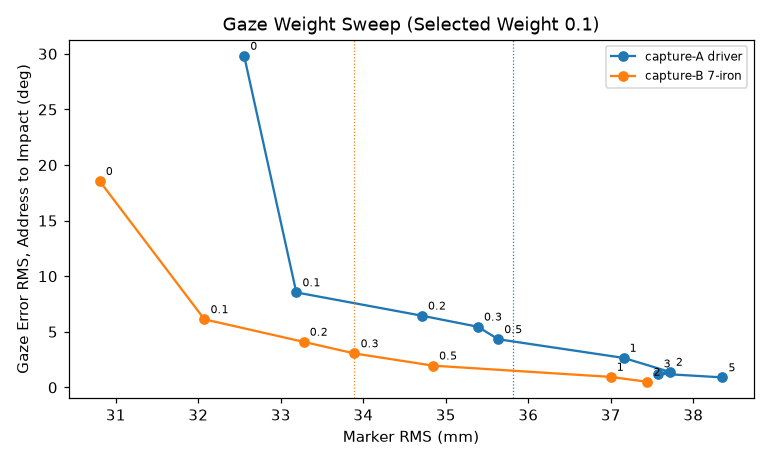
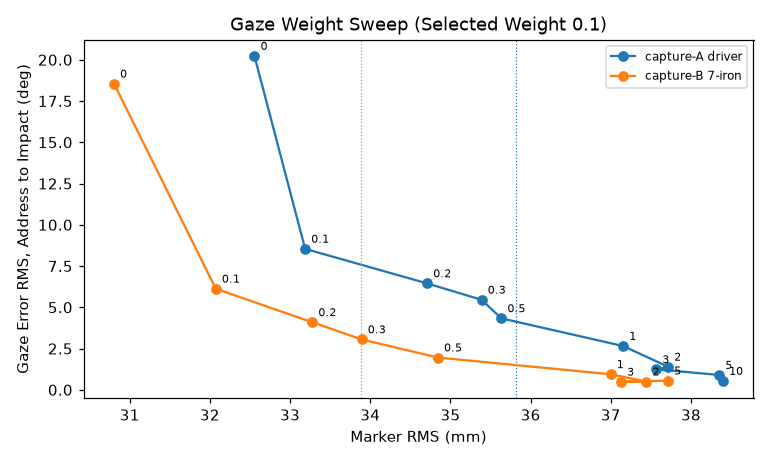
docs(gaze): complete sweep evidence with corrected driver baseline (OSV-3b, #11729)
Regenerated gaze_weight_sweep.json/png from all 19 rows: driver w=10 and iron w=3, 5 added, driver w=0 re-solved with the smoothed impact plan (theta_gaze RMS 20.2 deg, yaw range 49 deg). Selection unchanged at 0.1. Engine clip panels are 960x1080 so the gaze off|on pair is 1920x1080.

diff --git a/docs/development/full_body_models/head_gaze_reference.tex b/docs/development/full_body_models/head_gaze_reference.tex
@@ -33,7 +33,7 @@ $[0, 1]$ over the front. The reporting weight is the smallest per-capture knee a
 weights feasible in every capture. On the capture-A driver and capture-B iron sweeps
 (MuJoCo matching inverse kinematics, reference trajectory) both knees are $w = 0.1$, and
 the common feasible set is $\{0, 0.1, 0.2\}$. At $w = 0.1$, $\gamma$ falls from
-29.8$^\circ$ to 8.5$^\circ$ (driver) and from 18.6$^\circ$ to 6.1$^\circ$ (iron), for
+20.2$^\circ$ to 8.5$^\circ$ (driver) and from 18.6$^\circ$ to 6.1$^\circ$ (iron), for
 0.6 and 1.3~mm of marker RMS. Qualified receipts keep $w = 0$. The table and the
 reproduction commands are in \texttt{HEAD\_GAZE\_REFERENCE.md}.
 \section{Results and Limitations}

diff --git a/scripts/render_head_gaze_engines.py b/scripts/render_head_gaze_engines.py
@@ -30,6 +30,9 @@ SHAFT_RADIUS_M = 0.006
 CONE_LENGTH_M = 0.07
 HEAD_FORWARD_RGBA = (0.95, 0.1, 0.1, 1.0)
 SIGHT_RGBA = (0.2, 0.9, 0.3, 1.0)
+# One panel of the gaze off | gaze on pair, so the paired clip is 1920x1080.
+PANEL_WIDTH = 960
+PANEL_HEIGHT = 1080
 LOG = logging.getLogger("head_gaze_engines")
 
 
@@ -146,8 +149,8 @@ def export_run(run: Path, out: Path, label: str, engines: Sequence[str]) -> None
         impact_s = float(plan["impact_time_s"] - ik["time_s"][0])
     settings = replace(
         ExportSettings(),
-        width=1920,
-        height=1080,
+        width=PANEL_WIDTH,
+        height=PANEL_HEIGHT,
         fps=60,
         speeds=(1.0, 0.5),
         impact_time_s=impact_s,

diff --git a/docs/development/full_body_models/HEAD_GAZE_REFERENCE.md b/docs/development/full_body_models/HEAD_GAZE_REFERENCE.md
@@ -141,7 +141,7 @@ translation range, head yaw/pitch/roll range and the feasibility flag.
 
 | Capture | w | Marker RMS (mm) | Face RMS (deg) | theta_gaze RMS / max (deg) | Eye range x / y / z (mm) | Yaw / pitch / roll (deg) | Feasible |
 |---|---|---|---|---|---|---|---|
-| capture-A driver | 0 | 32.6 | 0.76 | 29.81 / 79.82 | 93 / 242 / 100 | 105 / 50 / 91 | yes |
+| capture-A driver | 0 | 32.6 | 0.76 | 20.23 / 37.06 | 48 / 113 / 25 | 49 / 11 / 75 | yes |
 | capture-A driver | 0.1 | 33.2 | 0.82 | 8.54 / 20.11 | 44 / 104 / 24 | 23 / 9 / 37 | yes |
 | capture-A driver | 0.2 | 34.7 | 0.75 | 6.45 / 15.77 | 48 / 104 / 23 | 22 / 8 / 30 | yes |
 | capture-A driver | 0.3 | 35.4 | 0.84 | 5.45 / 14.13 | 48 / 107 / 31 | 24 / 7 / 25 | yes |
@@ -150,6 +150,7 @@ translation range, head yaw/pitch/roll range and the feasibility flag.
 | capture-A driver | 2 | 37.7 | 0.91 | 1.40 / 4.79 | 49 / 107 / 26 | 27 / 4 / 18 | no |
 | capture-A driver | 3 | 37.6 | 0.82 | 1.24 / 4.70 | 46 / 127 / 25 | 27 / 4 / 18 | no |
 | capture-A driver | 5 | 38.4 | 0.87 | 0.90 / 3.39 | 49 / 126 / 27 | 28 / 4 / 18 | no |
+| capture-A driver | 10 | 38.4 | 0.83 | 0.54 / 1.43 | 47 / 112 / 28 | 28 / 4 / 18 | no |
 | capture-B iron | 0 | 30.8 | 0.58 | 18.55 / 32.63 | 60 / 125 / 38 | 45 / 8 / 66 | yes |
 | capture-B iron | 0.1 | 32.1 | 0.66 | 6.12 / 11.09 | 54 / 82 / 37 | 19 / 9 / 16 | yes |
 | capture-B iron | 0.2 | 33.3 | 0.64 | 4.10 / 8.02 | 53 / 76 / 36 | 24 / 7 / 11 | yes |
@@ -157,14 +158,17 @@ translation range, head yaw/pitch/roll range and the feasibility flag.
 | capture-B iron | 0.5 | 34.8 | 0.62 | 1.96 / 4.12 | 51 / 78 / 36 | 30 / 4 / 7 | no |
 | capture-B iron | 1 | 37.0 | 0.76 | 0.94 / 1.95 | 55 / 81 / 36 | 32 / 2 / 6 | no |
 | capture-B iron | 2 | 37.4 | 0.65 | 0.50 / 0.95 | 50 / 70 / 36 | 30 / 2 / 4 | no |
+| capture-B iron | 3 | 37.1 | 0.65 | 0.48 / 0.98 | 50 / 72 / 36 | 32 / 2 / 4 | no |
+| capture-B iron | 5 | 37.7 | 0.83 | 0.56 / 1.10 | 53 / 75 / 35 | 33 / 2 / 4 | no |
 
 Result: the knee is 0.1 in both captures and the common feasible set is
 {0, 0.1, 0.2}, so `REPORTING_GAZE_WEIGHT = 0.1`. At 0.1 the address-to-impact
-gaze error RMS falls from 29.8 to 8.5 degrees (driver) and from 18.6 to 6.1
+gaze error RMS falls from 20.2 to 8.5 degrees (driver) and from 18.6 to 6.1
 degrees (iron), for a marker RMS cost of 0.6 and 1.3 mm. The marker-faithful
-head swings widely (driver yaw range 105 degrees, eye y range 242 mm); the
-smallest weight already removes most of that motion. Iron w=0.3 misses the
-marker limit by 0.01 mm (33.89 against 33.88 mm); the rule is applied as
+head rolls and turns widely (yaw / roll range 49 / 75 degrees driver, 45 / 66
+degrees iron); the smallest weight already halves that motion. Iron w=0.3
+misses the marker limit by 0.01 mm (33.893 against a 33.885 mm limit); the
+rule is applied as
 written, with no tolerance widened. The face fit stays below 1 degree at every
 weight. Qualified receipts keep `--gaze-weight 0`. A regression test
 (`tests/scripts/test_head_gaze_sweep_scripts.py`) recomputes the selection
